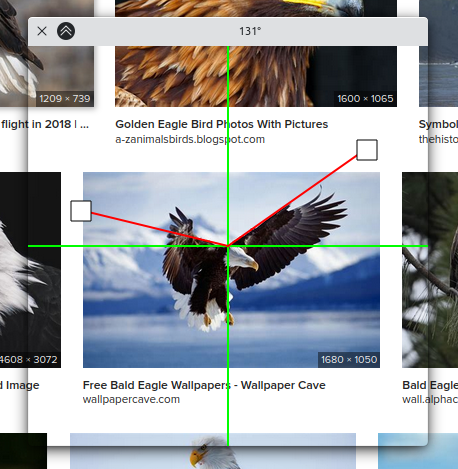
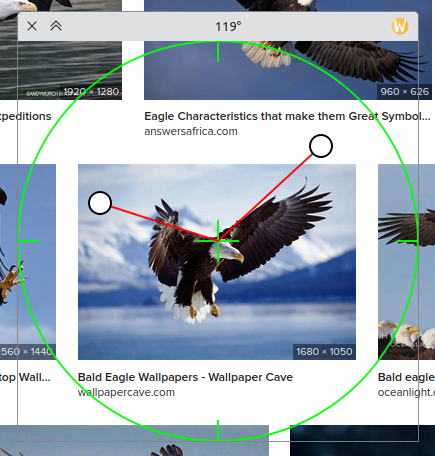
major update

diff --git a/protractor.cpp b/protractor.cpp
@@ -1,94 +1,177 @@
 #include "protractor.h"
+#include <QGuiApplication>
+#include <QLayout>
 #include <QList>
-#include <QtMath>
-#include <cmath>
 #include <QMouseEvent>
+#include <QPainter>
+#include <QWindow>
+#include <QtMath>
 
-const int HANDLE_W = 20;
-
-protractor::protractor(QWidget *) {
+protractor::protractor(QWidget*)
+{
     setAttribute(Qt::WA_TranslucentBackground);
     setMouseTracking(true);
     setFixedSize(400, 400);
-    handle_A = QRect(370, 200 - HANDLE_W / 2, HANDLE_W, HANDLE_W);
-    handle_B = QRect(50, 50, HANDLE_W, HANDLE_W);
+    A = QLineF(getCenterPoint(), QPoint(int(width() * 0.25), int(height() * 0.25)));
+    B = QLineF(getCenterPoint(), QPoint(int(width() * 0.75), int(height() * 0.5)));
 }
 
-void protractor::paintEvent(QPaintEvent *inEvent) {
+void protractor::paintEvent(QPaintEvent* inEvent)
+{
     Q_UNUSED(inEvent);
+
+    auto const static alpha = 240;
+    auto const static highLightColor = QColor(51, 166, 184); // Asagi-iro
 
     int w = this->width();
     int r = w / 2;
-    auto pen = new QPen(Qt::black,2);
+    auto pen = new QPen(Qt::black, 2);
     QPainter painter(this);
     painter.setPen(*pen);
     painter.setRenderHint(QPainter::Antialiasing);
 
-    pen->setColor(Qt::green);
+    pen->setColor(QColor(0, 255, 0, alpha));
     painter.setPen(*pen);
-    painter.drawLine(0,200,400,200);
-    painter.drawLine(200,0,200,400);
 
-    pen->setColor(Qt::red);
+    auto cp = getCenterPoint();
+
+    // middle +
+    painter.drawLine(QPoint(cp.x() - 20, cp.y()), QPoint(cp.x() + 20, cp.y())); // vertical
+    painter.drawLine(QPoint(halfWidth(), cp.y() - 20), QPoint(halfWidth(), cp.y() + 20)); // horizontal
+
+    // 4 ticks around the circle
+    // TODO: more ticks?
+    // up right down left
+    painter.drawLine(QPoint(halfWidth(), 0), QPoint(halfWidth(), 20));
+    painter.drawLine(QPoint(width() - 20, cp.y()), QPoint(width(), cp.y()));
+    painter.drawLine(QPoint(halfWidth(), height()), QPoint(halfWidth(), height() - 20));
+    painter.drawLine(QPoint(0, cp.y()), QPoint(20, cp.y()));
+
+    painter.drawEllipse(geometry());
+
+    pen->setColor(QColor(255, 0, 0, alpha));
     painter.setPen(*pen);
-    painter.drawLine(QPoint(r, r), handle_A.center());
-    painter.drawLine(QPoint(r, r), handle_B.center());
+    painter.drawLine(QPoint(r, r), A.p2());
+    painter.drawLine(QPoint(r, r), B.p2());
 
-    painter.setPen(Qt::black);
-    painter.setBrush(QBrush(Qt::white));
-    painter.drawRect(handle_A);
-    painter.drawRect(handle_B);
+    pen->setColor(Qt::black);
+    painter.setPen(*pen);
 
-    // TODO: revise math here
-    int x1 = handle_A.center().x() - this->width() / 2;
-    int y1 = -(handle_A.center().y() - this->width() / 2);
-    int x2 = handle_B.center().x() - this->width() / 2;
-    int y2 = -(handle_B.center().y() - this->width() / 2);
-    int dot = x1 * x2 + y1 * y2;
-    int det = x1 * y2 - y1 * x2;
-
-    this->windowHandle()->setTitle(QString::number(round(qRadiansToDegrees(qAbs(std::atan2(det, dot)))))+QString("°"));
+    if (handle_A_MOVE || handl_B_MOVE) {
+        painter.setBrush(Qt::white);
+        painter.drawEllipse(getHandleRect(A.p2().toPoint()));
+        painter.drawEllipse(getHandleRect(B.p2().toPoint()));
+    } else if (cursor_on_A && !handle_A_MOVE) {
+        painter.setBrush(highLightColor);
+        painter.drawEllipse(getHandleRect(A.p2().toPoint()));
+        painter.setBrush(Qt::white);
+        painter.drawEllipse(getHandleRect(B.p2().toPoint()));
+    } else if (cursor_on_B && !handl_B_MOVE) {
+        painter.setBrush(Qt::white);
+        painter.drawEllipse(getHandleRect(A.p2().toPoint()));
+        painter.setBrush(highLightColor);
+        painter.drawEllipse(getHandleRect(B.p2().toPoint()));
+    } else {
+        painter.setBrush(Qt::white);
+        painter.drawEllipse(getHandleRect(A.p2().toPoint()));
+        painter.drawEllipse(getHandleRect(B.p2().toPoint()));
+    }
 }
 
+int protractor::halfWidth() const { return width() / 2; }
 
-void protractor::mouseMoveEvent(QMouseEvent *event) {
-    Q_UNUSED(event);
+int protractor::halfHeight() const { return height() / 2; }
 
+void protractor::mouseMoveEvent(QMouseEvent* event)
+{
     QPoint p = event->position().toPoint();
 
-    if (!this->geometry().contains(p)){
-        event->accept();
+    if (getHandleRect(A.p2().toPoint()).contains(p)) {
+        cursor_on_A = true;
+        cursor_on_B = false;
+    } else if (getHandleRect(B.p2().toPoint()).contains(p)) {
+        cursor_on_A = false;
+        cursor_on_B = true;
+    } else {
+        cursor_on_A = false;
+        cursor_on_B = false;
+    }
+
+    if (!this->geometry().contains(p)) {
         return;
     }
 
-    if (handle_A_MOVE) {
-        handle_A.moveCenter(p);
-
-    } else if (handl_B_MOVE) {
-        handle_B.moveCenter(p);
-    } else if (window_MOVE) {
-        this->windowHandle()->startSystemMove();
+    if (!handle_A_MOVE && !handl_B_MOVE) {
+        if (QLineF(p, getCenterPoint()).length() > halfWidth()) {
+            this->windowHandle()->startSystemMove();
+        }
+    } else {
+        // move 5 degree is shift is hold
+        if (QGuiApplication::keyboardModifiers().testFlag(Qt::ShiftModifier)) {
+            if (handle_A_MOVE) {
+                A.setP2(calcApproximateHandlePoint(p));
+            } else if (handl_B_MOVE) {
+                B.setP2(calcApproximateHandlePoint(p));
+            }
+        } else {
+            if (handle_A_MOVE) {
+                A.setP2(p);
+            } else if (handl_B_MOVE) {
+                B.setP2(p);
+            }
+        }
+        this->windowHandle()->setTitle(QString::number(getAngleBetweenLines()) + QString("°"));
     }
 
-    event->accept();
-
     update();
+    event->accept();
 }
 
-void protractor::mousePressEvent(QMouseEvent *ev) {
-    if (handle_A.contains(ev->position().toPoint())) {
+void protractor::mousePressEvent(QMouseEvent* ev)
+{
+    if (cursor_on_A) {
         handle_A_MOVE = true;
-    } else if (handle_B.contains(ev->position().toPoint())) {
+    } else if (cursor_on_B) {
         handl_B_MOVE = true;
-    } else {
-        window_MOVE = true;
-    };
+    }
     ev->accept();
 }
 
-void protractor::mouseReleaseEvent(QMouseEvent *event) {
+void protractor::mouseReleaseEvent(QMouseEvent* event)
+{
     handle_A_MOVE = false;
     handl_B_MOVE = false;
-    window_MOVE = false;
     event->accept();
+}
+
+double protractor::getAngleBetweenLines()
+{
+    // TODO: revise math here
+    auto x1 = int(A.p2().x() - this->width() / 2.0);
+    auto y1 = int(-(A.p2().y() - this->width() / 2.0));
+    auto x2 = int(B.p2().x() - this->width() / 2.0);
+    auto y2 = int(-(B.p2().y() - this->width() / 2.0));
+    int dot = x1 * x2 + y1 * y2;
+    int det = x1 * y2 - y1 * x2;
+
+    return round(qRadiansToDegrees(qAbs(std::atan2(det, dot))));
+}
+QPoint protractor::getCenterPoint() const
+{
+    return { halfWidth(), halfHeight() };
+}
+
+QPoint protractor::calcApproximateHandlePoint(QPoint point)
+{
+    double angle = QLineF(getCenterPoint(), point).angle();
+    int newAngle = ((int)std::round(angle / 5)) * 5;
+
+    QLineF tempLine = QLineF::fromPolar(QLineF(getCenterPoint(), point).length(), newAngle);
+    tempLine.translate(getCenterPoint());
+
+    return tempLine.p2().toPoint();
+}
+QRect protractor::getHandleRect(QPoint point)
+{
+    return { point.x() - handle_apothem, point.y() - handle_apothem, handle_width, handle_width };
 }

diff --git a/protractor.h b/protractor.h
@@ -1,32 +1,39 @@
-#ifndef CIRCLE_H
-#define CIRCLE_H
+#pragma once
 
 #include <QWidget>
-#include <QWindow>
-#include <QPainter>
-#include <QLayout>
-#include <QWindow>
 
-class protractor : public QWidget
-{
+class protractor : public QWidget {
     Q_OBJECT
-protected:
-    void mouseMoveEvent(QMouseEvent *event) override;
-    void mousePressEvent(QMouseEvent *event) override;
-    void mouseReleaseEvent(QMouseEvent *event) override;
+
+    const static int handle_apothem = 11;
+    const static int handle_width = handle_apothem * 2;
+
 public:
-    explicit protractor(QWidget *parent = nullptr);
-    void paintEvent(QPaintEvent *) override;
+    explicit protractor(QWidget* parent = nullptr);
+    void paintEvent(QPaintEvent*) override;
 
 private:
-    QRect handle_A;
-    QRect handle_B;
+    // Line's P1 is the center dot, P2 is the handle's position
+    QLineF A;
+    QLineF B;
 
     bool handle_A_MOVE = false;
     bool handl_B_MOVE = false;
 
-    bool window_MOVE = false;
+    bool cursor_on_A = false;
+    bool cursor_on_B = false;
 
+    [[nodiscard]] int halfHeight() const;
+    [[nodiscard]] int halfWidth() const;
+
+    [[nodiscard]] QPoint getCenterPoint() const;
+    [[nodiscard]] double getAngleBetweenLines();
+
+    [[nodiscard]] auto getHandleRect(QPoint point) -> QRect;
+    [[nodiscard]] QPoint calcApproximateHandlePoint(QPoint point);
+
+protected:
+    void mouseMoveEvent(QMouseEvent* event) override;
+    void mousePressEvent(QMouseEvent* event) override;
+    void mouseReleaseEvent(QMouseEvent* event) override;
 };
-
-#endif // CIRCLE_H

diff --git a/main.cpp b/main.cpp
@@ -1,7 +1,8 @@
-#include <QApplication>
 #include "protractor.h"
+#include <QApplication>
 
-int main(int argc, char *argv[]) {
+int main(int argc, char* argv[])
+{
     QApplication a(argc, argv);
     protractor c(nullptr);
     c.show();

diff --git a/README.md b/README.md
@@ -2,6 +2,10 @@
 
 mini on screen protractor or angle measurement for linux.
 
+* Hold `Shift` to move 5° at a time
+
+![This is an image](./img.png)
+
 ```shell
 cmake -S . -B build_dir \
       -DCMAKE_BUILD_TYPE=Release
@@ -12,4 +16,4 @@ cmake --build build_dir
 
 mv ./build_dir/qangle ~/.local/bin/qangle
 ```
-![This is an image](./img.png)
+
